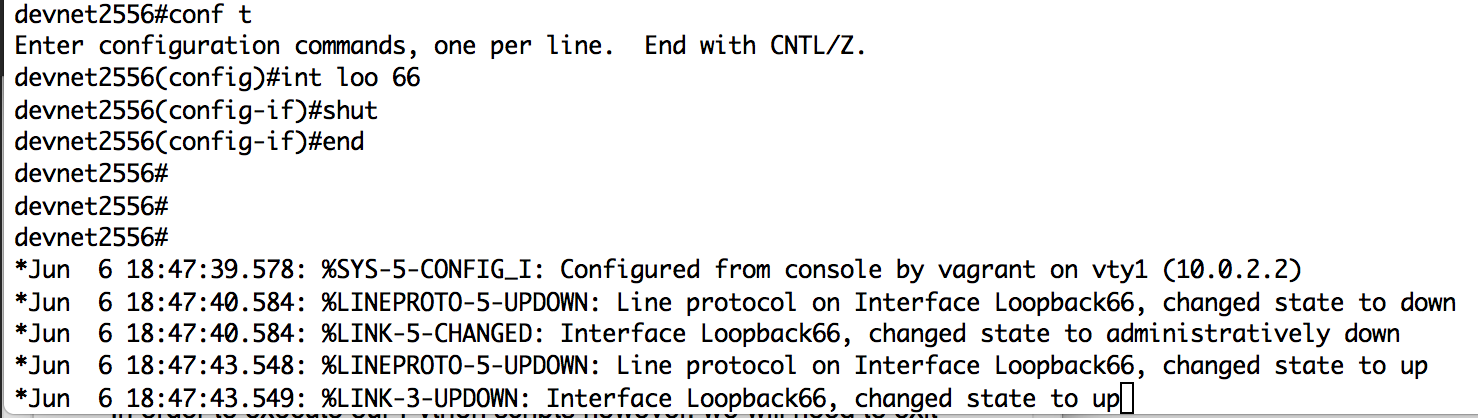
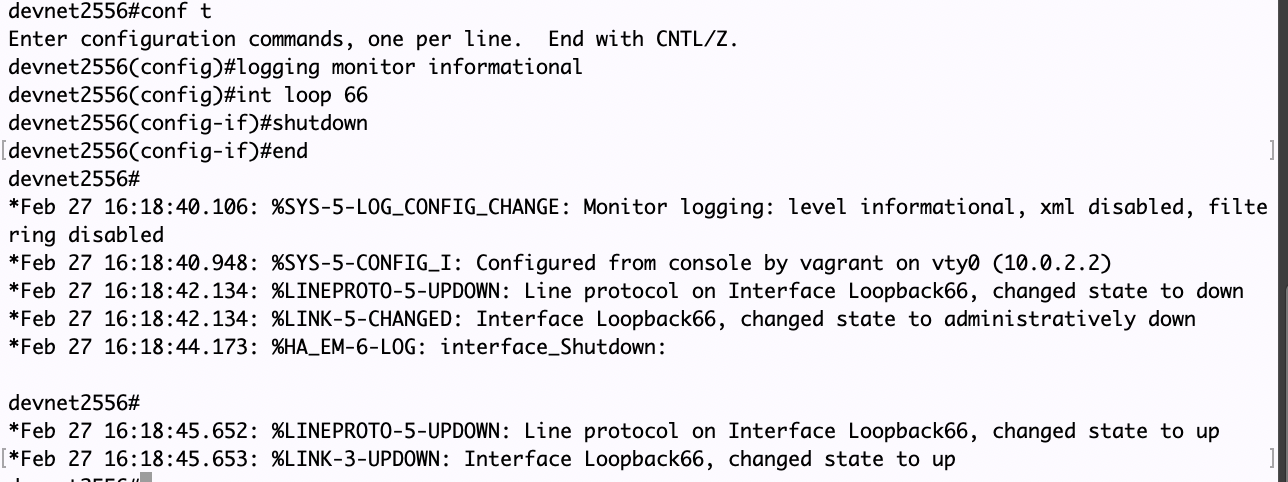
added description to Loopback77

Changed region(s): [[0.0, 0.0, 1.0, 1.0]]

diff --git a/code/eem_script.py b/code/eem_script.py
@@ -4,4 +4,5 @@ import cli
 intf = sys.argv[1:]
 intf = ''.join(intf[0])
 
-cli.configure(["int %s" %intf, "no shutdown", "end"])
+cli.configurep(["int %s" %intf, "no shutdown", "end"])
+    

diff --git a/Modules/Module7.md b/Modules/Module7.md
@@ -181,11 +181,11 @@ GigabitEthernet2, description: Link 2 - Configured by Ansible with Vagrant
 GigabitEthernet3, description: Link 3 - Configured by Ansible with Vagrant
 Loopback0,        description: Tracked Interface
 Loopback66,        description: empty
-Loopback77,        description: empty
+Loopback77,        description: This Is LO 77
 ```
 
 
 Now for the final module, let's bring all of these components together!
 
-### [Next Step - Module 8 - Bringin It All Together](Module8.md)
+### [Next Step - Module 8 - Bringing It All Together](Module8.md)
 

diff --git a/Modules/Module5.md b/Modules/Module5.md
@@ -38,6 +38,7 @@ event manager applet interface_Shutdown
  event syslog pattern "Interface Loopback66, changed state to administratively down"
  action 0.0 cli command "en"
  action 1.0 cli command "guestshell run python /flash/eem_script.py Loopback66"	
+ action 2.0 puts "$_cli_result"
 !
 end
 !
@@ -49,6 +50,7 @@ Note how shutting down Loopback66 will automatically execute the Python script. 
 ```
 term mon
 conf t
+logging monitor informational
 int loop 66
 shutdown
 end

diff --git a/Modules/Module3.md b/Modules/Module3.md
@@ -71,7 +71,7 @@ If we use the `cli.configurep()` command, we can get immediate feedback as to if
 Copy the content from the grey box below and paste that into the device.
 
 ```
-cli.configurep(["interface Loopback 77", "ip address 192.168.177.1 255.255.255.255", "end"])
+cli.configurep(["interface Loopback 77", "ip address 192.168.177.1 255.255.255.255", "description This Is LO 77", "end"])
 ```
 Now we see a result from each command in the list.
 
